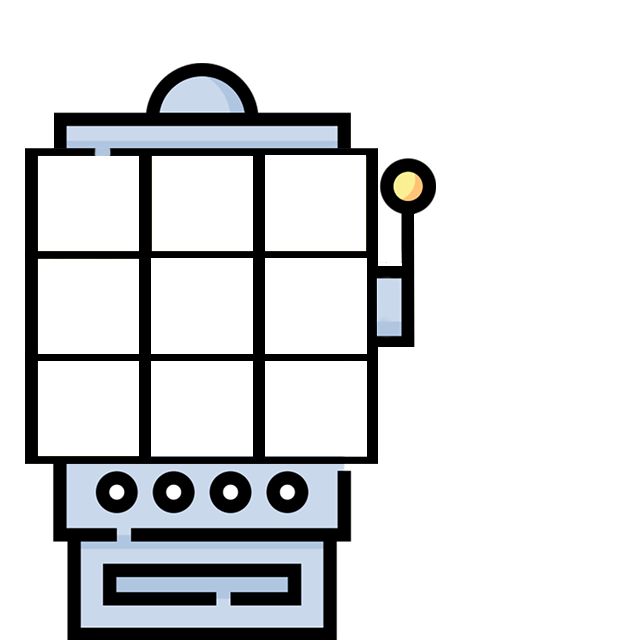
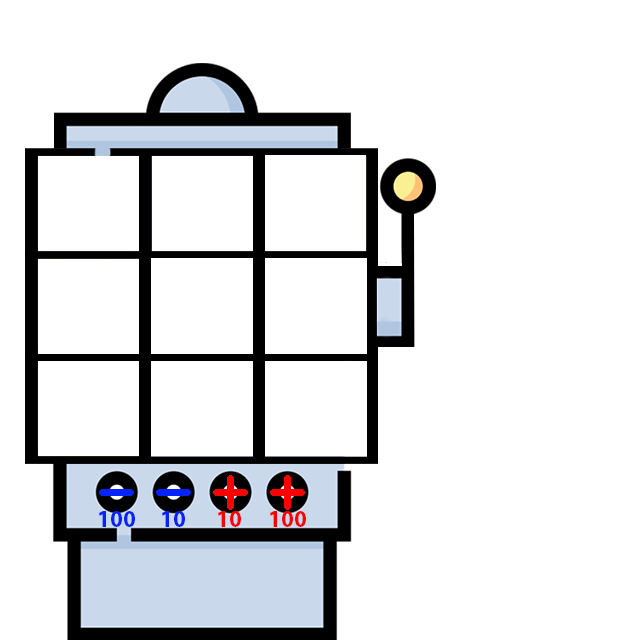
Added visuals for bet ammount

Changed region(s): [[0.1562, 0.875, 0.4688, 0.9688], [0.25, 0.75, 0.4688, 0.8438], [0.1562, 0.75, 0.2188, 0.8438]]

diff --git a/game.py b/game.py
@@ -56,6 +56,8 @@ pygame.display.set_icon(logo)
 background_color = [230, 230, 230]
 
 balance_font = pygame.font.SysFont("Arial", 50)
+bet_amount_font = pygame.font.SysFont("Arial", 50)
+
 
 slot_machine = pygame.image.load('Assets/slot-machine.png')
 coins = pygame.image.load('Assets/coins.png')
@@ -78,7 +80,10 @@ while run:
     current_balance_text = balance_font.render(str(balance), True, (0, 0, 0))
     screen.blit(current_balance_text, (600, 60))
     screen.blit(coins, (550, 70))
-   
+    
+    # TODO: dynamic text aligment
+    bet_amount_text = bet_amount_font.render(str(bet_amount), True, (0, 0, 0))
+    screen.blit(bet_amount_text, (175, 515))
 
     for event in pygame.event.get():
         if event.type == pygame.QUIT:
